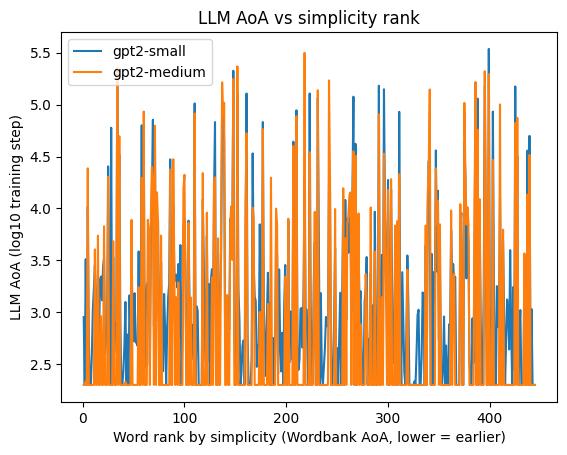
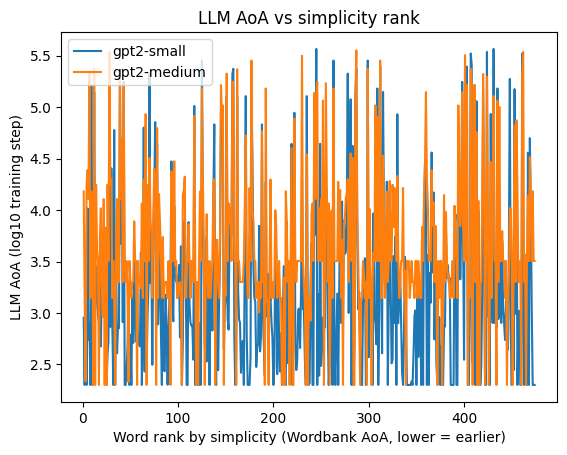
removed warnings

diff --git a/src/experiments/plot.py b/src/experiments/plot.py
@@ -185,22 +185,33 @@ def compute_llm_aoa_steps(
         return aoa_log10
 
     step_arr = np.array(steps, dtype=float)
-    log_steps = np.log10(step_arr)
+    log_steps = np.full_like(step_arr, np.nan, dtype=float)
+    positive_mask = step_arr > 0
+    log_steps[positive_mask] = np.log10(step_arr[positive_mask])
 
     for w in words:
         s = np.array(word_to_series[w], dtype=float)
         base_mask = np.isfinite(s)
-        step_mask = np.isfinite(log_steps) & (step_arr > 0)
+        step_mask = np.isfinite(log_steps)
         mask = base_mask & step_mask
-        
+
         if mask.sum() < 4:
             continue
 
         x = log_steps[mask]
         y = s[mask]
+        order = np.argsort(x)
+        x = x[order]
+        y = y[order]
+
+        if x.size < 2:
+            continue
 
         y_min = float(np.min(y))
         y_max = float(np.max(y))
+        if not np.isfinite(y_min) or not np.isfinite(y_max) or y_max == y_min:
+            continue
+
         thr = 0.5 * (baseline_bits + y_min)
 
         L0 = max(y_max - y_min, 1e-3)
@@ -219,36 +230,58 @@ def compute_llm_aoa_steps(
                 maxfev=10000,
             )
             L, k, x0, b = popt
-            if L <= 0 or k <= 0:
-                raise RuntimeError("non-decreasing fit")
 
-            f_min = float(logistic4(x.min(), *popt))
-            f_max = float(logistic4(x.max(), *popt))
-            hi = max(f_min, f_max)
-            lo = min(f_min, f_max)
-            if not (lo <= thr <= hi):
+            if L * k == 0:
+                raise RuntimeError("flat logistic fit")
+
+            f_lo = float(logistic4(x[0], *popt))
+            f_hi = float(logistic4(x[-1], *popt))
+
+            lo_val = min(f_lo, f_hi)
+            hi_val = max(f_lo, f_hi)
+
+            if not (lo_val <= thr <= hi_val):
                 raise RuntimeError("threshold outside fit range")
 
-            lo_x = x.min()
-            hi_x = x.max()
-            for _ in range(60):
-                mid_x = 0.5 * (lo_x + hi_x)
-                val = float(logistic4(mid_x, *popt))
-                if val > thr:
-                    lo_x = mid_x
-                else:
-                    hi_x = mid_x
+            lo_x = x[0]
+            hi_x = x[-1]
+
+            if f_lo <= f_hi:
+                for _ in range(60):
+                    mid_x = 0.5 * (lo_x + hi_x)
+                    val = float(logistic4(mid_x, *popt))
+                    if val < thr:
+                        lo_x = mid_x
+                    else:
+                        hi_x = mid_x
+            else:
+                for _ in range(60):
+                    mid_x = 0.5 * (lo_x + hi_x)
+                    val = float(logistic4(mid_x, *popt))
+                    if val > thr:
+                        lo_x = mid_x
+                    else:
+                        hi_x = mid_x
+
             x_star = 0.5 * (lo_x + hi_x)
-        except Exception as e:  # fallback to linear scan
+
+        except Exception as e:  # fallback find crossing
             idx_val = None
-            for j, v in enumerate(y):
-                if np.isfinite(v) and v <= thr:
+
+            for j in range(1, len(y)):
+                y_prev, y_curr = y[j - 1], y[j]
+                if not (np.isfinite(y_prev) and np.isfinite(y_curr)):
+                    continue
+
+                if (y_prev - thr) * (y_curr - thr) <= 0:
                     idx_val = j
                     break
-            if idx_val is not None:
-                x_star = float(x[idx_val])
 
-        if x_star is not None:
+            if idx_val is None:  # fallback linear scan
+                idx_val = int(np.argmin(np.abs(y - thr)))
+            x_star = float(x[idx_val])
+
+        if x_star is not None and np.isfinite(x_star):
             aoa_log10[w] = x_star
 
     return aoa_log10
